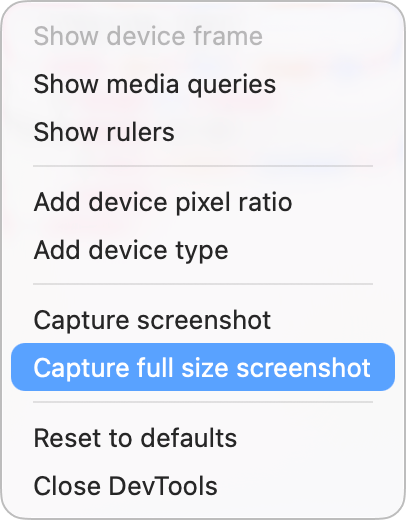
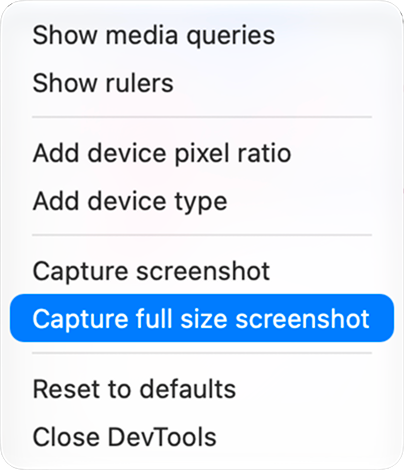
Update Device Mode, and menus

diff --git a/content/topic/dev-tools/index.md b/content/topic/dev-tools/index.md
@@ -3,7 +3,7 @@ const week = 4
 const order = 2
 ```
 
-# DevTools&#x202F;/&thinsp;Web Inspector
+# DevTools / Web Inspector
 
 ## Browsers Are Our Imperfect Venue
 
@@ -29,7 +29,7 @@ You’ll often hear people (Michael) call it the *Web Inspector*, or just *The 
 
 ## Inspecting Pages
 
-<div class="center verso">
+<div class="end verso">
 
 In Chrome, you can bring them up by right-clicking on any element/part of a page and clicking <samp>Inspect</samp>:
 
@@ -39,7 +39,7 @@ You can also hit <kbd><kbd><span class="x2318">⌘</span>/Ctrl</kbd>+<kbd><span 
 
 </div>
 
-<figure class="borderless center justify-center recto shadow" style="--height: 273px">
+<figure class="borderless center justify-center recto shadow" style="--height: 307px">
 <img src="right-click.png">
 </figure>
 
@@ -107,7 +107,7 @@ On the right, you can see the sum *Computed* (or *rendered*) values of all the 
 >
 > <sub>Any edits in the DevTools will be lost when you leave or reload the page! They are just for you.</sub>
 
-## Device Mode <!-- inert -->
+## Device Mode
 
 Enter *device mode* with the little phone/laptop <samp><span class="x2ff8">⿸</span></samp> button, in the upper left of the DevTools:
 
@@ -120,28 +120,28 @@ Be sure to *hard-refresh* with <kbd><kbd><span class="x2318">⌘</span>/Ctrl</kb
 </figcaption>
 </figure>
 
-<figure class="all borderless">
+<figure class="all borderless justify-center">
 <img src="device-bar.svg">
 </figure>
 
 <div class="center left">
 
-Generally, use the <samp>Responsive <span class="x25be">▾</span></samp> mode that lets you type in specific pixel dimensions for width/height. Or you can use the divided bar underneath to quickly jump through common/ballpark widths.
+Generally, use the <samp>Responsive <span class="x25be">▾</span></samp> mode that lets you try varied pixel dimensions for width/height—dragging the viewport out to test fluidly. Or you can use the divided bar underneath to quickly jump through some common/ballpark widths.
 
 The *Preview Zoom* also allows you to approximate views *larger* than your current screen! You can specify larger dimensions, and it will scale down to show the entire viewport. This is great for developing on a laptop—it won’t be precise, but it’ll give you some idea of big screens.
 
 </div>
 
-<figure class="borderless middle shadow start" style="--height: 489px">
+<figure class="borderless middle shadow start" style="--height: 428px">
 <img src="responsive.png">
 <figcaption>
 
-The <samp>Device List <span class="x25be">▾</span></samp> is… *ancient* and inaccurate—they don’t account for the browser’s own interface, so they are all too tall!
+The <samp>Device List <span class="x25be">▾</span></samp> is old and inaccurate—they don’t account for the browser’s own interface, so they are all too tall!
 
 </figcaption>
 </figure>
 
-<figure class="borderless right shadow" style="--height: 260px">
+<figure class="borderless right shadow" style="--height: 235px">
 <img src="options.png">
 <figcaption>
 
@@ -150,7 +150,7 @@ The <samp>More Options <span class="x22ee">⋮</span></samp> menu here has some 
 </figcaption>
 </figure>
 
-**Remember that you are not targeting specific devices; you are looking for when your design/content *breaks*!**
+**Remember that you are *not* [targeting specific devices](../responsive/index.md#there-is-no-perfect-layout); you are looking for when your own design/content *breaks*!**
 
 > [!IMPORTANT]
 >
